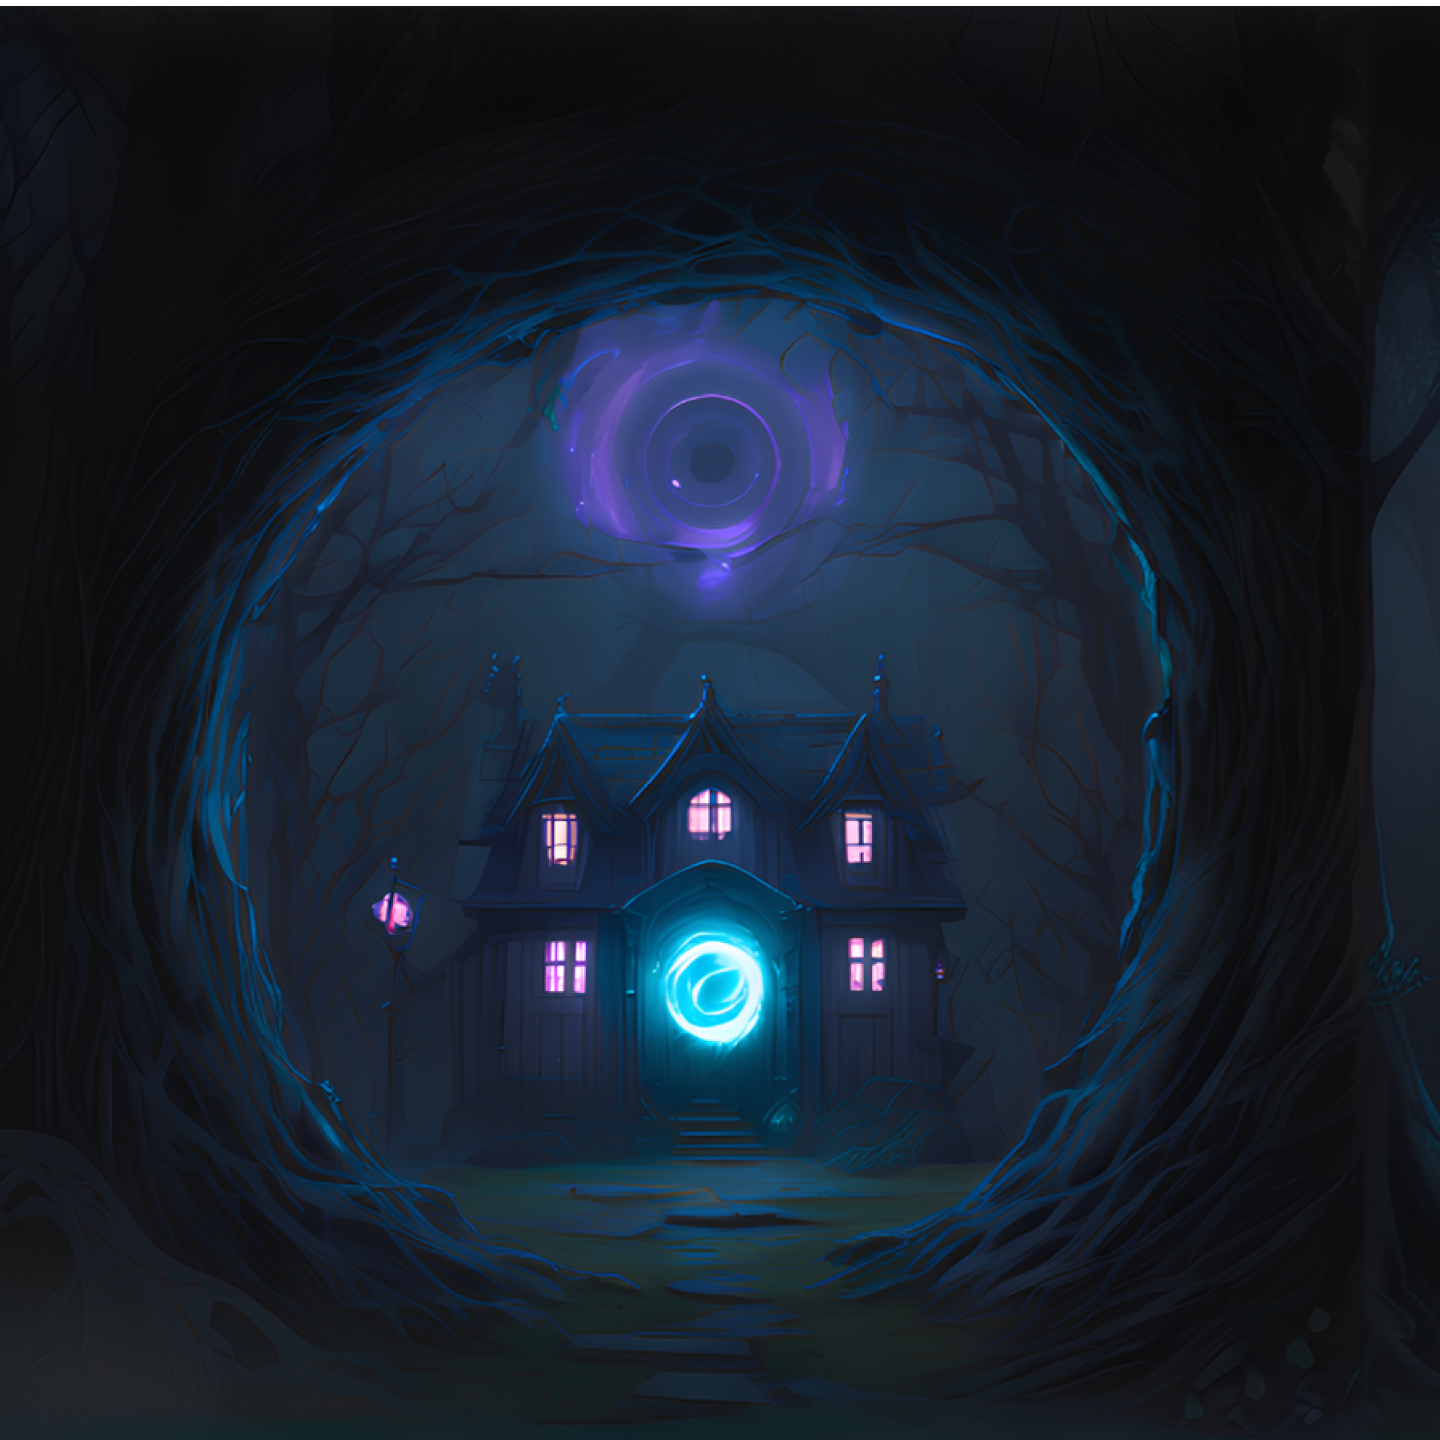
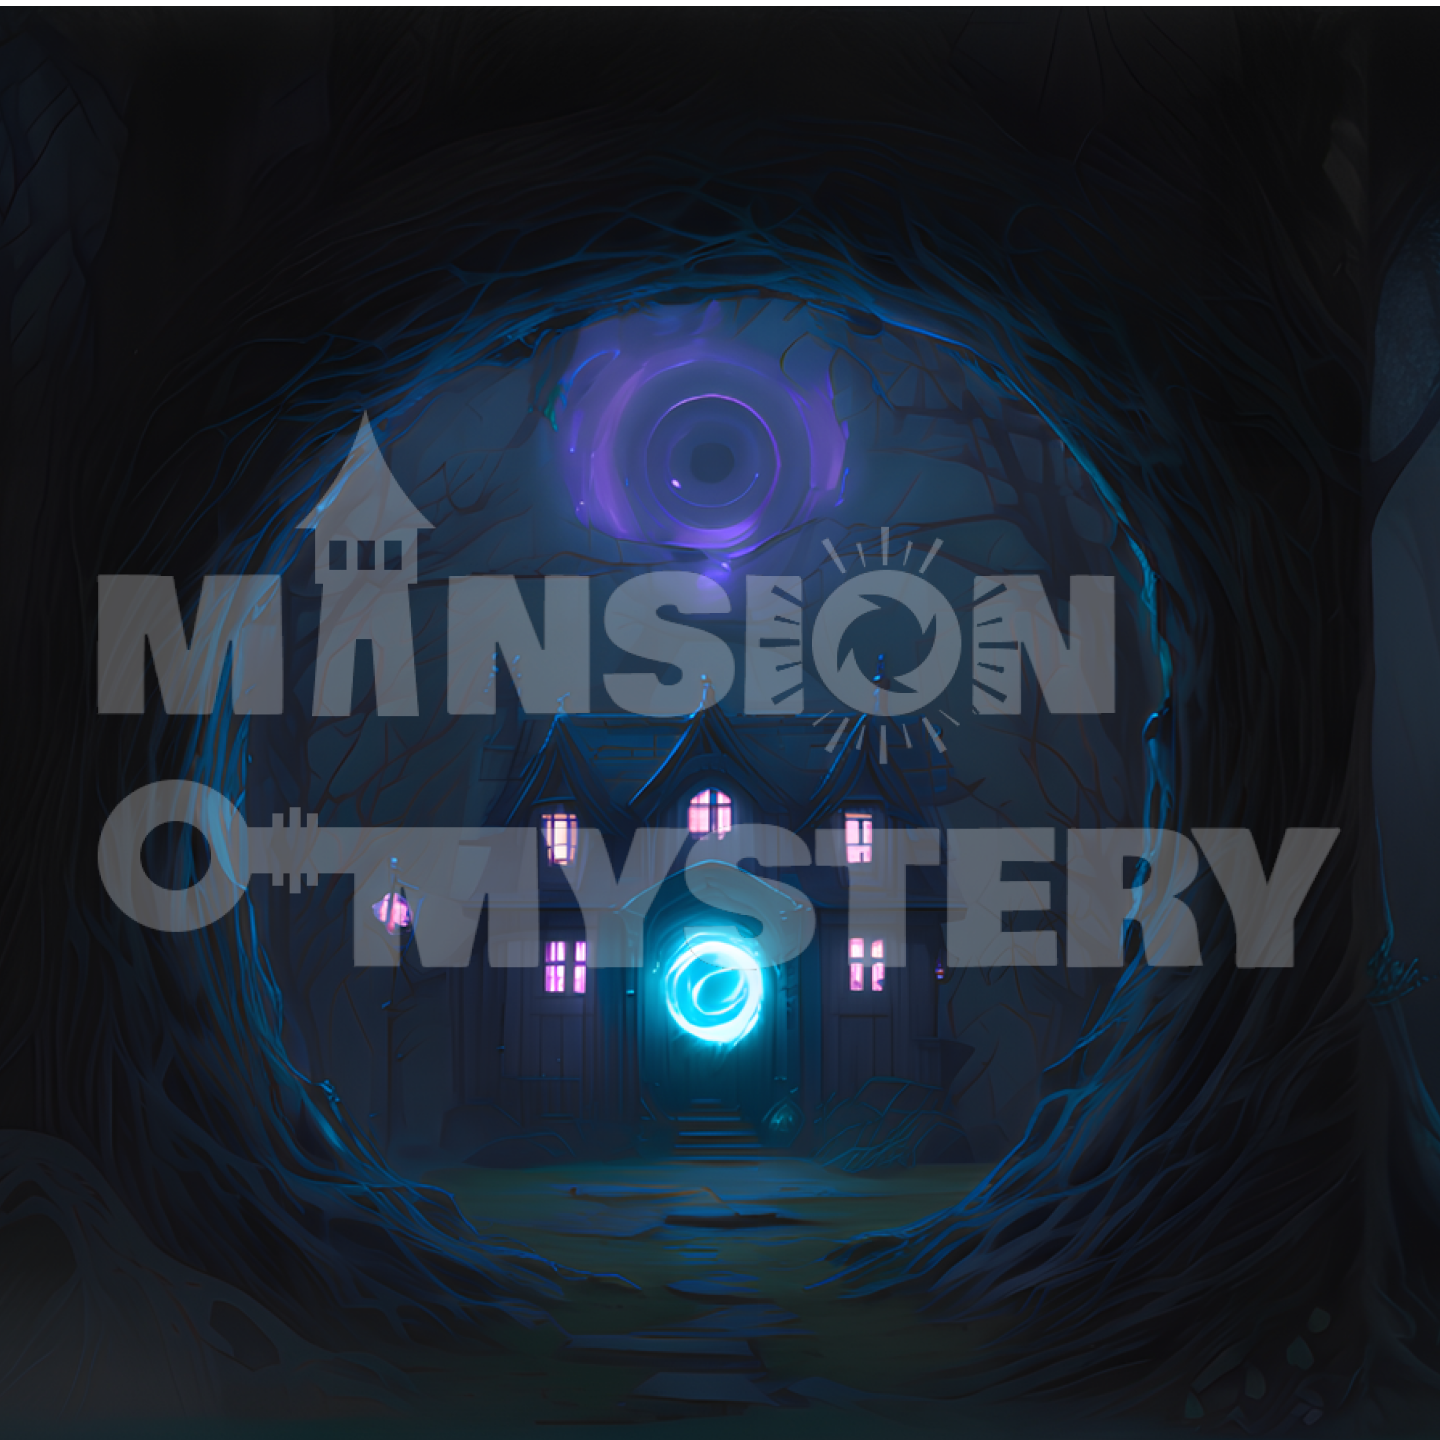
Add mansion mystery page

Changed region(s): [[0.0625, 0.5312, 0.9375, 0.6875], [0.0625, 0.2812, 0.7812, 0.5312]]

diff --git a/src/routes/mansionMystery/+page.svelte b/src/routes/mansionMystery/+page.svelte
@@ -1,3 +1,137 @@
 <title>GarageVR: Mansion Mystery</title>
 
-<h1>Mansion Mystery</h1>
+<img src="mansionMysteryHeader.png" alt="Grill on Wheels logo" />
+<div class="contact-links">
+    <a href="/mm_oculus" target="_blank">
+        <img src="meta.png" alt="Meta icon" />
+    </a>
+    <a href="/mm_steam" target="_blank">
+        <img src="steam.png" alt="Discord icon" />
+    </a>
+    <a href="/mm_sidequest" target="_blank">
+        <img src="sidequest.png" alt="SideQuest icon" />
+    </a>
+    <a href="/mm_rift" target="_blank">
+        <img src="rift.png" alt="Oculus icon" />
+    </a>
+</div>
+
+<div>
+    <p>
+        <strong>An Unforgettable VR Escape Room Experience Awaits!</strong>
+        <br /><br />Embark on an enigmatic journey with "<em>Mansion Mystery</em
+        >". Navigate through the shadowy corridors and immerse yourself in a
+        puzzle-solving adventure where every decision is a key to unlock the
+        mystery. Dive deep into this VR escape and unravel the secrets of the
+        mansion.
+    </p>
+
+    <h2>Features:</h2>
+    <ul>
+        <li>
+            <strong>Immersive VR Gameplay:</strong> Experience every twist, turn,
+            and puzzle challenge in vivid VR.
+        </li>
+        <li>
+            <strong>Intricate Puzzles:</strong> Test your puzzle-solving skills with
+            carefully crafted challenges that keep you on the edge.
+        </li>
+        <li>
+            <strong>Interactive Environment:</strong> Collect items and interact
+            with the surroundings to unlock mysteries and escape the mansion.
+        </li>
+        <li>
+            <strong>Captivating Game Mechanics:</strong> Every clue matters, and
+            every second counts as you race against time to break free.
+        </li>
+    </ul>
+
+    <p>
+        Use your observational skills and creativity to navigate through the
+        mansion's puzzles. Each challenge is a piece of the larger mystery, and
+        every decision brings you closer to freedom. As you collect items and
+        interact with the environment, the mansion reveals its secrets. "<em
+            >Mansion Mystery</em
+        >" isn't just an escape room game; it's an immersive tale of suspense,
+        ingenuity, and the thrill of solving intricate puzzles. Challenge
+        yourself, think outside the box, and escape the mysteries that await!
+    </p>
+</div>
+
+<style>
+    /* Styles remain unchanged for consistency */
+    div {
+        margin: 0 3rem;
+        padding: 0 1rem;
+        text-align: justify;
+    }
+
+    img {
+        width: 100%;
+        margin: 0;
+        padding: 0;
+    }
+
+    p {
+        font-size: 1.1rem;
+    }
+
+    strong {
+        font-weight: bold;
+        color: #222;
+    }
+
+    em {
+        font-style: italic;
+        font-weight: bold;
+    }
+
+    ul {
+        list-style-type: disc;
+        margin-left: 2rem;
+    }
+
+    li {
+        margin-bottom: 0.5rem;
+    }
+
+    h2 {
+        font-size: 1.3rem;
+        font-weight: bold;
+        margin-top: 1.5rem;
+        margin-bottom: 1rem;
+    }
+
+    .contact-links {
+        display: flex;
+        flex-wrap: wrap;
+        justify-content: space-evenly;
+        margin-bottom: 2rem;
+    }
+
+    .contact-links a {
+        flex: 0 0 calc(25% - 1.5rem);
+        margin: 0 0.75rem;
+        margin-top: 2rem;
+    }
+
+    .contact-links img {
+        width: 100%;
+        height: auto;
+        border-radius: 50%;
+        box-shadow: 0.4rem 0.4rem 0.4rem rgba(0, 0, 0, 0.5);
+        transition: transform 0.3s ease-in-out, box-shadow 0.3s ease-in-out;
+    }
+
+    .contact-links img:hover {
+        transform: scale(1.2);
+        box-shadow: 0.8rem 0.8rem 0.8rem rgba(0, 0, 0, 0.5);
+    }
+
+    @media (min-width: 800px) {
+        /* Apply styles when the window width exceeds 800px */
+        .contact-links a {
+            max-width: 130px; /* Set the max-width as per your requirement */
+        }
+    }
+</style>

diff --git a/src/hooks.server.ts b/src/hooks.server.ts
@@ -4,10 +4,10 @@ const redirects = {
 	'/mm_steam': 'https://store.steampowered.com/app/2424630/Mansion_Mystery/',
 	'/mm_sidequest': 'https://sidequestvr.com/app/16983/mansion-mystery-on-oculus-quest-2',
 	'/mm_sidequest_demo': 'https://sidequestvr.com/app/21575/mansion-mystery-demo',
-	'/mm_oculus': 'https://developer.oculus.com/manage/applications/5691978394241239/',
-	'/mm_rift': 'https://developer.oculus.com/manage/applications/6603598483052842/',
-	'/mm_rift_demo': 'https://developer.oculus.com/manage/applications/6406980346082616/',
-	'/mm_oculus_demo': 'https://developer.oculus.com/manage/applications/6366695100092907/',
+	'/mm_oculus': 'https://www.meta.com/experiences/5691978394241239',
+	'/mm_rift': 'https://www.meta.com/experiences/pcvr/6603598483052842',
+	'/mm_rift_demo': 'https://www.meta.com/experiences/pcvr/6406980346082616',
+	'/mm_oculus_demo': 'https://www.meta.com/experiences/6366695100092907',
 	'/gow_oculus': 'https://www.meta.com/experiences/7056585347694088/',
 	'/gow_steam': 'https://store.steampowered.com/app/2628680/Grill_on_Wheels/',
 	'/gow_rift': 'https://www.meta.com/experiences/pcvr/6663932167059911',
